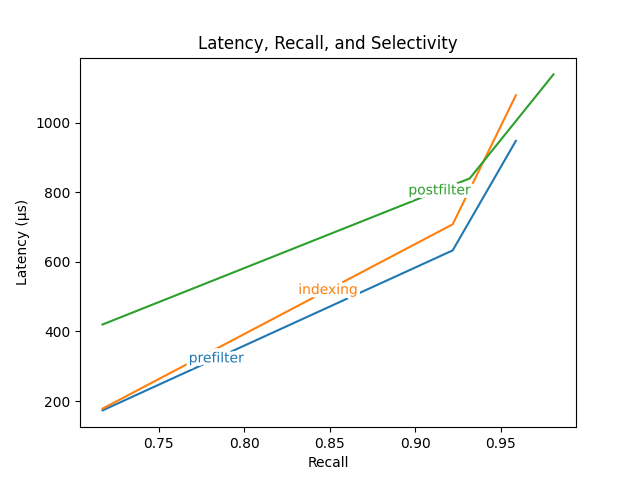
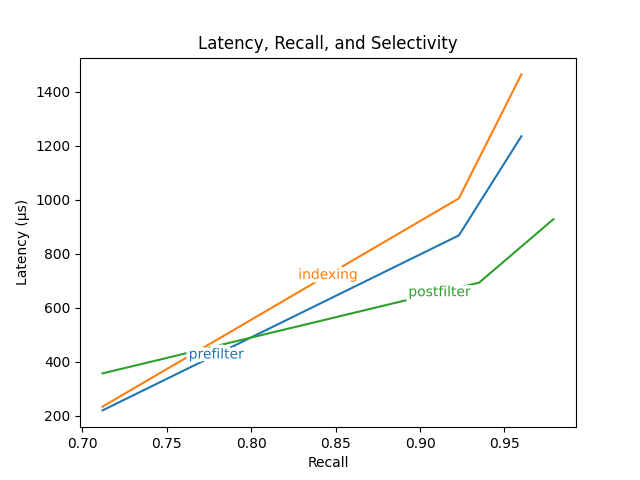
changes to graphing

diff --git a/scripts/experiment_parametriser/experimenter.py b/scripts/experiment_parametriser/experimenter.py
@@ -70,7 +70,7 @@ if __name__ == "__main__":
         
 
     dataset_filter_attribute_range = [i for i in range(30)]
-    n_input_vecs = 100000 #999994
+    n_input_vecs = 999994 #999994
     index_param_sets = [
         # {
         # "dataset_filter_attributes": np.array(dataset_filter_attribute_range, dtype=np.int32),
@@ -82,19 +82,6 @@ if __name__ == "__main__":
         # "rank": 32,
         # "train_size": 5,
         # "a0_selectivity": 0.01, # ratio of points with attribute 0,
-        # "euclidean": True,
-        # "dataset_file": "wiki-news-300d-1M.vec",
-        # },
-        # {
-        # "dataset_filter_attributes": np.array(dataset_filter_attribute_range, dtype=np.int32),
-        # "n_attributes_per_datapoint": 10,
-        # "n_attr_idx_partitions": 30,
-        # "n_input_vecs": n_input_vecs, #999994
-        # "n_clusters": 1024, # 1024 for full set,
-        # "global_dim": 256,
-        # "rank": 32,
-        # "train_size": 5,
-        # "a0_selectivity": 0.5, # ratio of points with attribute 0,
         # "euclidean": True,
         # "dataset_file": "wiki-news-300d-1M.vec",
         # },
@@ -111,6 +98,19 @@ if __name__ == "__main__":
         "euclidean": True,
         "dataset_file": "wiki-news-300d-1M.vec",
         },
+        # {
+        # "dataset_filter_attributes": np.array(dataset_filter_attribute_range, dtype=np.int32),
+        # "n_attributes_per_datapoint": 10,
+        # "n_attr_idx_partitions": 30,
+        # "n_input_vecs": n_input_vecs, #999994
+        # "n_clusters": 1024, # 1024 for full set,
+        # "global_dim": 256,
+        # "rank": 32,
+        # "train_size": 5,
+        # "a0_selectivity": 0.99, # ratio of points with attribute 0,
+        # "euclidean": True,
+        # "dataset_file": "wiki-news-300d-1M.vec",
+        # },
     ]
     
     query_indices = [random.randint(0, n_input_vecs) for i in range(100)]#[399529, 241926, 958223, 402175, 893348, 9781, 819157, 880067, 460738, 758298, 334374, 270022, 650928, 612145, 125639, 453611, 881900, 226359, 76249, 498268, 131075, 702495, 19438, 129779, 722313, 944585, 279510, 333237, 650012, 190935, 930905, 316057, 418856, 111895, 98062, 695562, 517225, 241595, 22717, 81649, 763585]
@@ -151,71 +151,170 @@ if __name__ == "__main__":
             "label": "prefilter"
         },
         {
-            "clusters_to_search": 10,
+            "clusters_to_search": 300,
             "points_to_rerank": 2000,
             "k": 10,
             "filter_attributes": [0],
-            "filter_approach": "indexing",
+            "filter_approach": "prefilter",
             "exact_search_approach": "prefilter",
             "n_repeat_runs": 1,
             "query_indices": query_indices,
-            "filter_approach": "indexing",
+            "label": "prefilter"
         },
         {
-            "clusters_to_search": 100,
+            "clusters_to_search": 400,
             "points_to_rerank": 2000,
             "k": 10,
             "filter_attributes": [0],
-            "filter_approach": "indexing",
+            "filter_approach": "prefilter",
             "exact_search_approach": "prefilter",
             "n_repeat_runs": 1,
             "query_indices": query_indices,
-            "filter_approach": "indexing",
+            "label": "prefilter"
         },
         {
-            "clusters_to_search": 200,
+            "clusters_to_search": 500,
             "points_to_rerank": 2000,
             "k": 10,
             "filter_attributes": [0],
-            "filter_approach": "indexing",
+            "filter_approach": "prefilter",
             "exact_search_approach": "prefilter",
             "n_repeat_runs": 1,
             "query_indices": query_indices,
-            "filter_approach": "indexing",
+            "label": "prefilter"
         },
-        {
-            "clusters_to_search": 10,
-            "points_to_rerank": 2000,
-            "k": 10,
-            "filter_attributes": [0],
-            "filter_approach": "postfilter",
-            "exact_search_approach": "prefilter",
-            "n_repeat_runs": 1,
-            "query_indices": query_indices,
-            "filter_approach": "postfilter",
-        },
-        {
-            "clusters_to_search": 100,
-            "points_to_rerank": 2000,
-            "k": 10,
-            "filter_attributes": [0],
-            "filter_approach": "postfilter",
-            "exact_search_approach": "prefilter",
-            "n_repeat_runs": 1,
-            "query_indices": query_indices,
-            "filter_approach": "postfilter",
-        },
-        {
-            "clusters_to_search": 200,
-            "points_to_rerank": 2000,
-            "k": 10,
-            "filter_attributes": [0],
-            "filter_approach": "postfilter",
-            "exact_search_approach": "prefilter",
-            "n_repeat_runs": 1,
-            "query_indices": query_indices,
-            "filter_approach": "postfilter",
-        },
+        # {
+        #     "clusters_to_search": 10,
+        #     "points_to_rerank": 2000,
+        #     "k": 10,
+        #     "filter_attributes": [0],
+        #     "filter_approach": "indexing",
+        #     "exact_search_approach": "prefilter",
+        #     "n_repeat_runs": 1,
+        #     "query_indices": query_indices,
+        #     "filter_approach": "indexing",
+        # },
+        # {
+        #     "clusters_to_search": 100,
+        #     "points_to_rerank": 2000,
+        #     "k": 10,
+        #     "filter_attributes": [0],
+        #     "filter_approach": "indexing",
+        #     "exact_search_approach": "prefilter",
+        #     "n_repeat_runs": 1,
+        #     "query_indices": query_indices,
+        #     "filter_approach": "indexing",
+        # },
+        # {
+        #     "clusters_to_search": 200,
+        #     "points_to_rerank": 2000,
+        #     "k": 10,
+        #     "filter_attributes": [0],
+        #     "filter_approach": "indexing",
+        #     "exact_search_approach": "prefilter",
+        #     "n_repeat_runs": 1,
+        #     "query_indices": query_indices,
+        #     "filter_approach": "indexing",
+        # },
+        # {
+        #     "clusters_to_search": 300,
+        #     "points_to_rerank": 2000,
+        #     "k": 10,
+        #     "filter_attributes": [0],
+        #     "filter_approach": "indexing",
+        #     "exact_search_approach": "prefilter",
+        #     "n_repeat_runs": 1,
+        #     "query_indices": query_indices,
+        #     "filter_approach": "indexing",
+        # },
+        # {
+        #     "clusters_to_search": 400,
+        #     "points_to_rerank": 2000,
+        #     "k": 10,
+        #     "filter_attributes": [0],
+        #     "filter_approach": "indexing",
+        #     "exact_search_approach": "prefilter",
+        #     "n_repeat_runs": 1,
+        #     "query_indices": query_indices,
+        #     "filter_approach": "indexing",
+        # },
+        # {
+        #     "clusters_to_search": 500,
+        #     "points_to_rerank": 2000,
+        #     "k": 10,
+        #     "filter_attributes": [0],
+        #     "filter_approach": "indexing",
+        #     "exact_search_approach": "prefilter",
+        #     "n_repeat_runs": 1,
+        #     "query_indices": query_indices,
+        #     "filter_approach": "indexing",
+        # },
+        # {
+        #     "clusters_to_search": 10,
+        #     "points_to_rerank": 2000,
+        #     "k": 10,
+        #     "filter_attributes": [0],
+        #     "filter_approach": "postfilter",
+        #     "exact_search_approach": "prefilter",
+        #     "n_repeat_runs": 1,
+        #     "query_indices": query_indices,
+        #     "filter_approach": "postfilter",
+        # },
+        # {
+        #     "clusters_to_search": 100,
+        #     "points_to_rerank": 2000,
+        #     "k": 10,
+        #     "filter_attributes": [0],
+        #     "filter_approach": "postfilter",
+        #     "exact_search_approach": "prefilter",
+        #     "n_repeat_runs": 1,
+        #     "query_indices": query_indices,
+        #     "filter_approach": "postfilter",
+        # },
+        # {
+        #     "clusters_to_search": 200,
+        #     "points_to_rerank": 2000,
+        #     "k": 10,
+        #     "filter_attributes": [0],
+        #     "filter_approach": "postfilter",
+        #     "exact_search_approach": "prefilter",
+        #     "n_repeat_runs": 1,
+        #     "query_indices": query_indices,
+        #     "filter_approach": "postfilter",
+        # },
+        # {
+        #     "clusters_to_search": 300,
+        #     "points_to_rerank": 2000,
+        #     "k": 10,
+        #     "filter_attributes": [0],
+        #     "filter_approach": "postfilter",
+        #     "exact_search_approach": "prefilter",
+        #     "n_repeat_runs": 1,
+        #     "query_indices": query_indices,
+        #     "filter_approach": "postfilter",
+        # },
+        # {
+        #     "clusters_to_search": 400,
+        #     "points_to_rerank": 2000,
+        #     "k": 10,
+        #     "filter_attributes": [0],
+        #     "filter_approach": "postfilter",
+        #     "exact_search_approach": "prefilter",
+        #     "n_repeat_runs": 1,
+        #     "query_indices": query_indices,
+        #     "filter_approach": "postfilter",
+        # },
+        # {
+        #     "clusters_to_search": 500,
+        #     "points_to_rerank": 2000,
+        #     "k": 10,
+        #     "filter_attributes": [0],
+        #     "filter_approach": "postfilter",
+        #     "exact_search_approach": "prefilter",
+        #     "n_repeat_runs": 1,
+        #     "query_indices": query_indices,
+        #     "filter_approach": "postfilter",
+        # },
     ]
     
     
@@ -301,8 +400,8 @@ if __name__ == "__main__":
             avg_exact_search_latency = int(total_exact_latency) / n_repeat_runs
             avg_recall = total_recall / n_repeat_runs
             print(bcolors.WARNING + "Average recall: " + str(avg_recall) + bcolors.ENDC)
-            print(bcolors.OKBLUE + "Average exact (", param_set["filter_approach"], ") search latency: ", avg_exact_search_latency, " microseconds" + bcolors.ENDC)
-            print(bcolors.OKCYAN + "Average approximate (", param_set["exact_search_approach"], ") search latency: ", avg_approximate_search_latency, " microseconds" + bcolors.ENDC)
+            print(bcolors.OKBLUE + "Average exact (", param_set["exact_search_approach"], ") search latency: ", avg_exact_search_latency, " microseconds" + bcolors.ENDC)
+            print(bcolors.OKCYAN + "Average approximate (", param_set["filter_approach"], ") search latency: ", avg_approximate_search_latency, " microseconds" + bcolors.ENDC)
             if param_set["filter_approach"] not in outputs:
                 outputs[param_set["filter_approach"]] = [{**param_set, "recall": avg_recall, "approx_latency": avg_approximate_search_latency, "exact_latency": avg_exact_search_latency}]
             else:
@@ -315,11 +414,12 @@ if __name__ == "__main__":
                 print("all_approximate_latencies: ", (all_approximate_latencies))
                 all_exact_latencies = [o["exact_latency"] for o in outputs[filter_approach]]
                 plt.plot(all_recalls, all_approximate_latencies, label=filter_approach) # index_param_set["label"] if "label" in index_param_set else f"selectivity={index_param_set["a0_selectivity"]}"
-    labelLines(plt.gca().get_lines(), align=False)
-    plt.title("Latency, Recall, and Selectivity")
-    plt.ylabel("Latency (μs)")
-    plt.xlabel("Recall")
-    plt.savefig(f"../../figures/recall-latency_prefilter.png")
+    
+        labelLines(plt.gca().get_lines(), align=False)
+        plt.title(f"Latency, Recall, and {index_param_set["a0_selectivity"]} Selectivity ({n_input_vecs} points)")
+        plt.ylabel("Latency (μs)")
+        plt.xlabel("Recall")
+        plt.savefig(f"../../figures/recall-latency_a0{index_param_set["a0_selectivity"]}.png")
     plt.show()
 
 

diff --git a/lorann/lorann.h b/lorann/lorann.h
@@ -235,12 +235,6 @@ class Lorann : public LorannBase {
         current_cumulative_size += sz;
       }
     }
-    // std::cout << filter_approach << " all_distances: " << std::endl;
-    // for (auto& i: all_distances) {
-    //   std::cout << i << " ";
-    // }
-    // std::cout << std::endl;
-    // std::cout << all_distances.transpose() << std::endl;
     auto stop_clusters = std::chrono::high_resolution_clock::now();
     auto duration_clusters = std::chrono::duration_cast<std::chrono::microseconds>(stop_clusters - start_clusters);
     auto duration_prework = std::chrono::duration_cast<std::chrono::microseconds>(stop_prework - start_prework);
